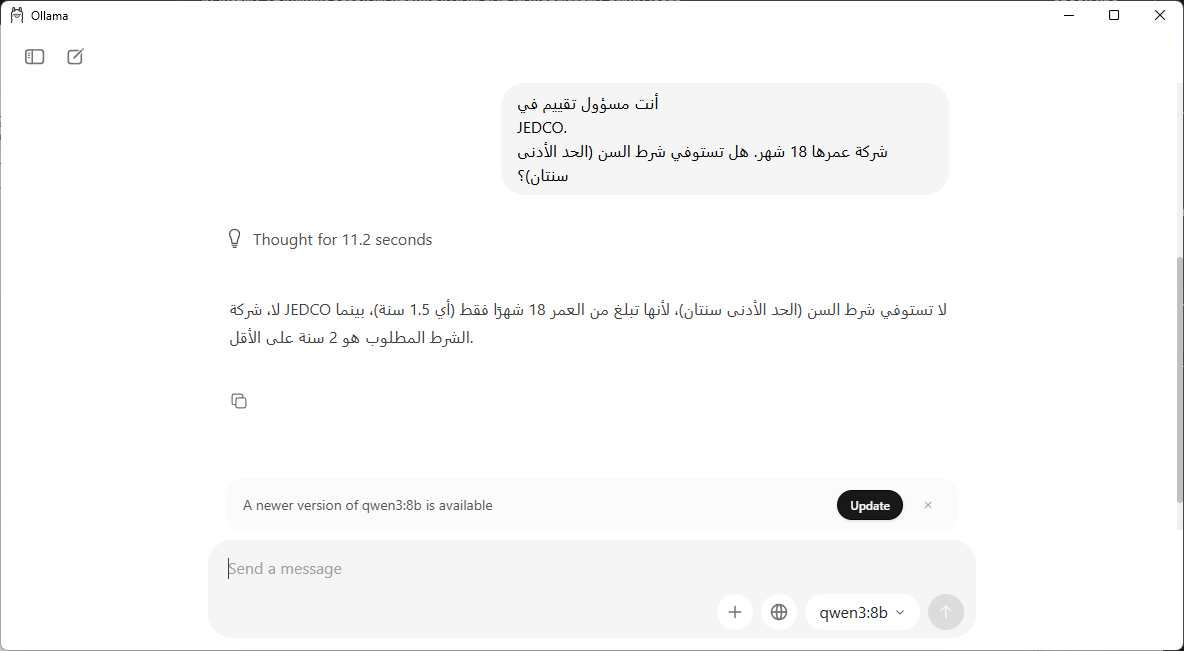
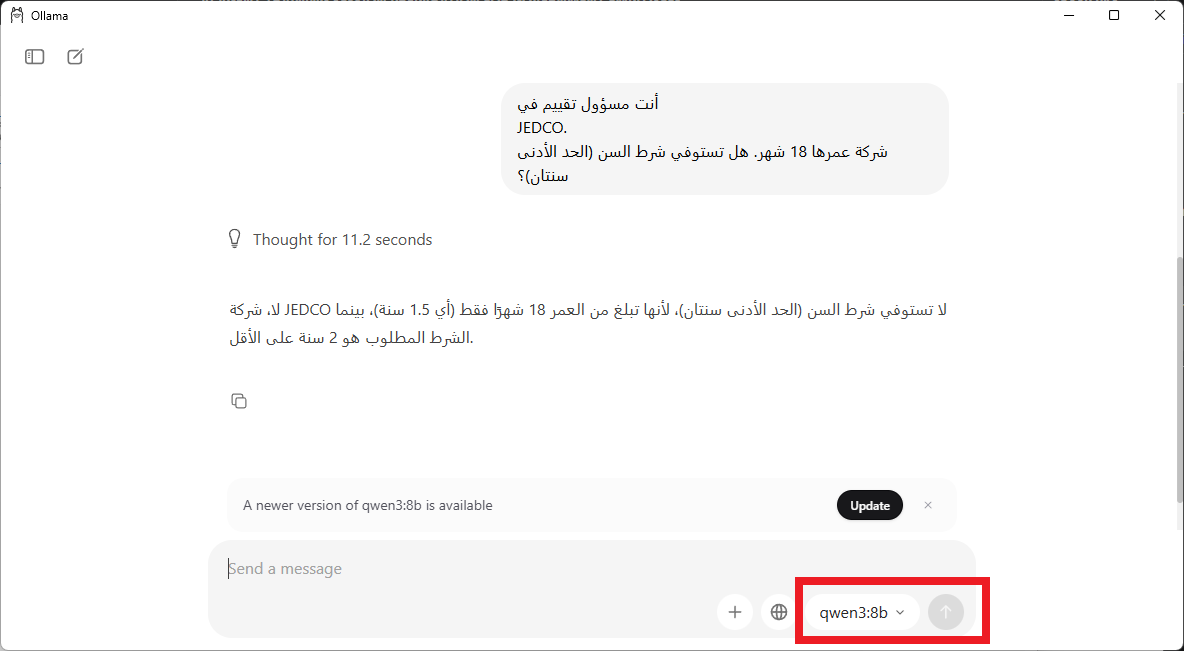
GUI-only flow: remove CLI commands, add structured prompt story, fix image aspect ratio

Changed region(s): [[0.6562, 0.8602, 0.8438, 1.0]]

diff --git a/docs/index.html b/docs/index.html
@@ -208,13 +208,13 @@ pre { background: #2c3e50; color: #ecf0f1; padding: 10px 14px; border-radius: 8p
       <h2><span class="step">1</span> Install the AI Brain</h2>
       <div class="split">
         <div>
-          <h3>Download Ollama</h3>
+          <h3>Download &amp; Install Ollama</h3>
           <p>Visit <strong>ollama.com</strong> → download → install. Takes 5 minutes.</p>
-          <h3>Pull the Model</h3>
-          <pre>ollama pull qwen3:8b</pre>
-          <p class="small">Downloads a 5.2 GB AI model to your computer. ~10 min.</p>
-          <h3>Test It</h3>
-          <pre>ollama run qwen3:8b "ما هي شروط برنامج تطوير؟"</pre>
+          <h3>Download the AI Model</h3>
+          <p>Open Ollama → go to <strong>Models</strong> → search <strong>qwen3:8b</strong> → click <strong>Download</strong>.</p>
+          <p class="small">~5.2 GB · downloads once, runs forever · no internet needed after.</p>
+          <h3>Start Chatting</h3>
+          <p>Select <strong>Qwen3 8B</strong> from the model list → open the chat → type your question.</p>
         </div>
         <div class="center">
           <div class="box" style="max-width:100%; padding: 20px;">
@@ -223,7 +223,7 @@ pre { background: #2c3e50; color: #ecf0f1; padding: 10px 14px; border-radius: 8p
             The AI runs on <em>your</em> computer.<br>
             <span class="highlight">Nothing goes to the internet.</span>
           </div>
-          <div class="placeholder">🎥 Video: Installing Ollama — coming soon</div>
+          <a href="https://ollama.com" target="_blank" rel="noopener" style="display:inline-block; margin-top: 12px; padding: 10px 20px; background: var(--blue); color: white; border-radius: 8px; text-decoration: none; font-weight: 600; font-size: clamp(0.8rem, 1.8vw, 1rem);">🌐 ollama.com — Download Here</a>
         </div>
       </div>
     </div>
@@ -258,9 +258,15 @@ pre { background: #2c3e50; color: #ecf0f1; padding: 10px 14px; border-radius: 8p
     <div class="swiper-slide">
       <h2>Test Manually First<br>(Like Using ChatGPT)</h2>
       <p>Before automating, let's test the AI manually:</p>
-      <pre>ollama run qwen3:8b</pre>
-      <p class="small">This opens an interactive chat. Now type naturally:</p>
-      <img src="images/ollama-interactive-test.png" style="max-width: 100%; max-height: 300px; border-radius: 8px; margin: 1em 0; box-shadow: 0 2px 8px rgba(0,0,0,0.1);" alt="Ollama interactive chat test">
+      <div style="background: #eaf2f8; border-left: 4px solid var(--blue); padding: 10px 14px; border-radius: 6px; margin: 0.5em 0; font-size: clamp(0.75rem, 1.7vw, 0.92rem);">
+        🖥 Open <strong>Ollama</strong> → select <strong>Qwen3 8B</strong> → type in the chat box
+      </div>
+      <p class="small">Just like ChatGPT — type your question, press Enter:</p>
+      <div class="rtl" style="background: #1e1e2e; color: #cdd6f4; padding: 12px 16px; border-radius: 8px; margin: 0.6em 0; font-family: 'Cascadia Code', Consolas, monospace; font-size: clamp(0.8rem, 1.8vw, 1rem); border-left: 4px solid var(--green);">
+        أنت مسؤول تقييم في JEDCO.<br>
+        شركة عمرها 18 شهر. هل تستوفي شرط السن (الحد الأدنى سنتان)؟
+      </div>
+      <img src="images/ollama-interactive-test.png" style="max-width: 30%; height: auto; border-radius: 8px; margin: 1em 0; box-shadow: 0 2px 8px rgba(0,0,0,0.1); display: block;" alt="Ollama interactive chat test">
       <p style="margin-top: 1em;"><strong>This works!</strong> The AI answers correctly. Arabic questions, JEDCO logic, all working. But now imagine:</p>
       <ul>
         <li>100 applications to evaluate</li>
